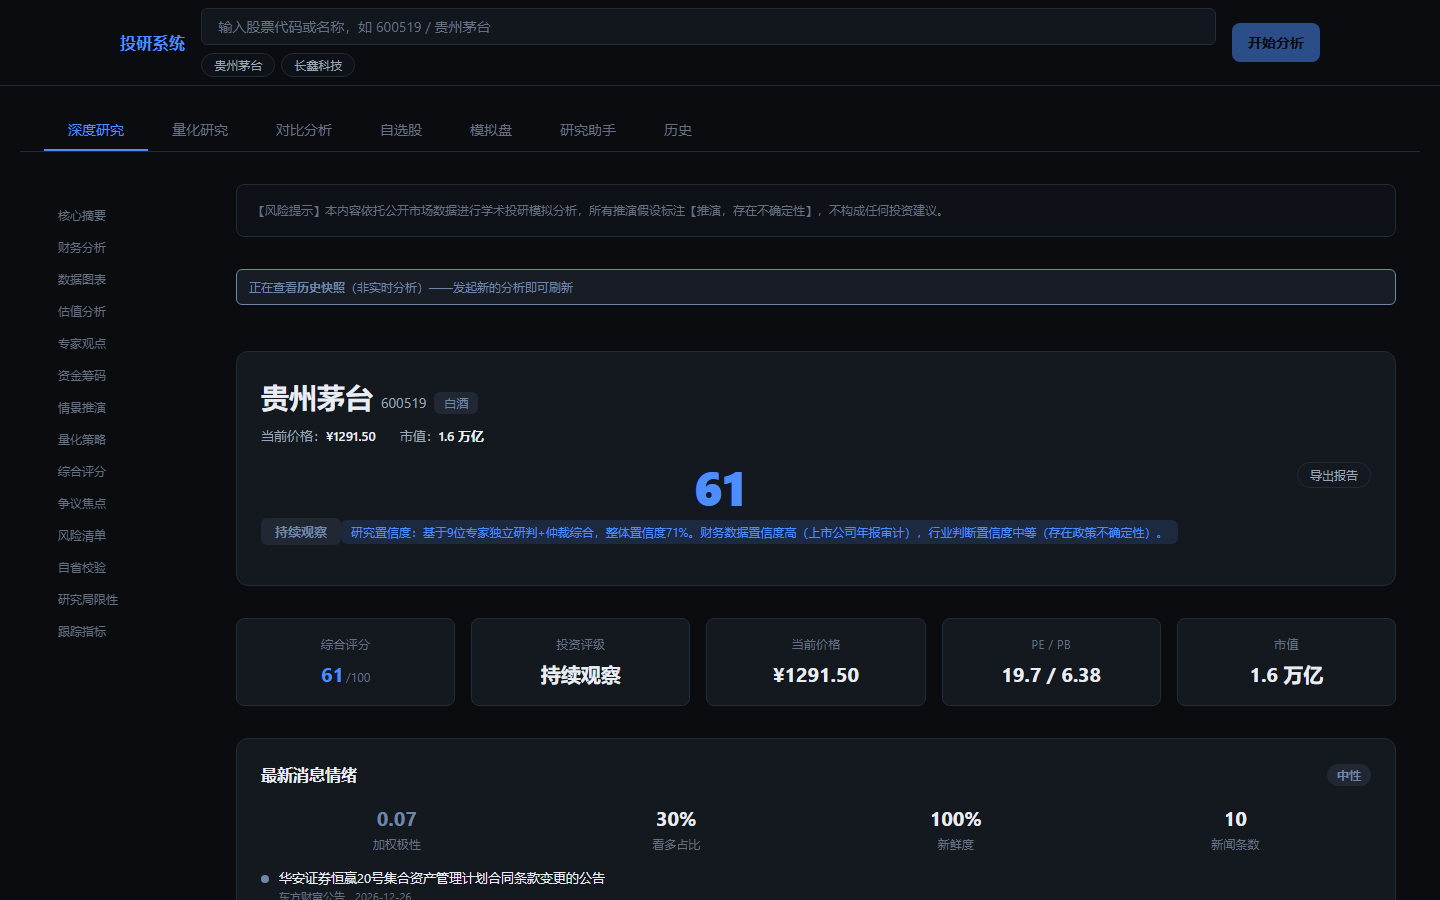
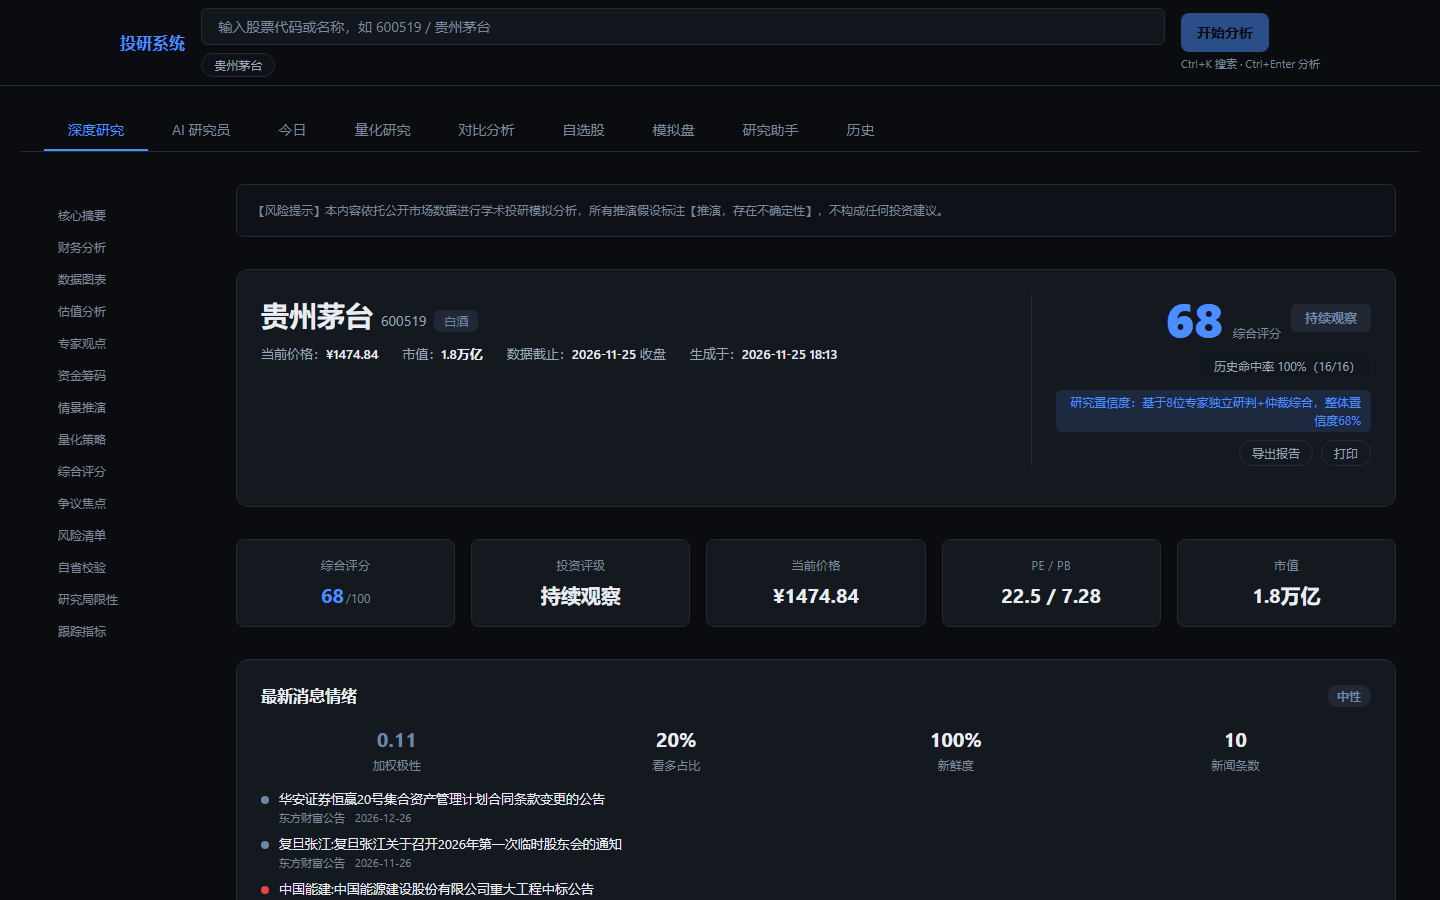
docs: README 最快上手、启动说明与测试数字，重拍报告首图
- 顶部补「最快上手」：npm ci / server/.env / npm run dev
- 启动脚本段落说明 503 就绪判定、失败退出与局域网访问前提
- 测试数字同步为 3687 用例 / 271 文件
- 用真实分析（贵州茅台）重拍报告首图

diff --git a/README.md b/README.md
@@ -4,12 +4,23 @@
   <img src="https://img.shields.io/badge/TypeScript-7-3178C6" alt="TypeScript" />
   <img src="https://img.shields.io/badge/React-19-61DAFB" alt="React 19" />
   <img src="https://img.shields.io/badge/Express-5-000000" alt="Express 5" />
-  <img src="https://img.shields.io/badge/tests-3680%20cases-brightgreen" alt="3680 测试用例" />
+  <img src="https://img.shields.io/badge/tests-3687%20cases-brightgreen" alt="3687 测试用例" />
   <a href="https://github.com/xiaomaozjj666/stock-research-system/actions/workflows/ci.yml"><img src="https://github.com/xiaomaozjj666/stock-research-system/actions/workflows/ci.yml/badge.svg" alt="CI" /></a>
   <img src="https://img.shields.io/badge/license-MIT-blue" alt="MIT License" />
 </p>
 
 > 面向 A 股的全栈投研平台：多专家协同研判、专业 K 线行情分析、量化回测与防过拟合评估、可插拔交易成本模型与风险归因、模拟盘研究闭环、自选股异动监控，以及对话式研究助手。「今日」页把每天要看的聚到一屏：自选股异动、关注股评分变化、最近一份研究简报。
+
+## 最快上手
+
+```bash
+# 需 Node 24+（见 .nvmrc）
+npm ci --legacy-peer-deps      # 安装依赖（首次）
+cp .env.example server/.env    # 填 DEEPSEEK_API_KEY；缺省时只能用规则引擎的降级结论
+npm run dev                    # 前端 http://localhost:5173，后端 http://localhost:3001
+```
+
+依赖装好后也可双击 `启动系统.bat` 直接起服务。环境变量、生产构建与故障排查见 [快速开始](#快速开始) 与 [环境变量](#环境变量)。
 
 ![深度研究报告总览](docs/screenshots/report-overview.png)
 
@@ -169,7 +180,7 @@ server/          Express API 服务
 **技术栈**
 
 - Monorepo（npm workspaces）：`server/`（Express 5 + TypeScript）+ `client/`（React 19 + Vite 8 + ECharts 6）
-- 测试：Vitest（服务 / 量化 / 研究 Agent / 前端组件，3680 用例 / 270 个测试文件，行覆盖 93.36% / statements 91.30% / functions 93.10% / branches 81.93%）+ Playwright（E2E 17 用例）+ GitHub Actions CI（质量门禁 + 覆盖率阈值 + 体积预算 + E2E）
+- 测试：Vitest（服务 / 量化 / 研究 Agent / 前端组件，3687 用例 / 271 个测试文件，行覆盖 93.36% / statements 91.30% / functions 93.10% / branches 81.93%）+ Playwright（E2E 17 用例）+ GitHub Actions CI（质量门禁 + 覆盖率阈值 + 体积预算 + E2E）
 
 ## 快速开始
 
@@ -193,7 +204,9 @@ npm run dev:client    # 前端 → http://localhost:5173
 npm run build         # server + client，单端口同源托管
 ```
 
-Windows 一键启动：双击 `启动系统.bat`。该脚本不做任何安装，只负责启动与健康等待：先后在 `server/`（`npx tsx watch src/index.ts`，端口 3001）与 `client/`（`npx vite --host`，端口 5173）各开一个命令行窗口，轮询 `http://localhost:3001/api/health` 等待后端就绪（最长 90 秒，超时只打印警告并继续），随后轮询前端端口并自动打开浏览器。因此**首次使用仍需先执行上面的 `npm install`**，否则 `npx tsx` / `npx vite` 会因依赖缺失而失败。
+Windows 一键启动：双击 `启动系统.bat`。该脚本不做任何安装，只负责启动与健康等待：先检查 Node 与 `node_modules`、以及 3001/5173 端口是否被占用，随后在 `server/`（`npx tsx watch src/index.ts`，端口 3001）与 `client/`（`npx vite`，端口 5173）各开一个命令行窗口，轮询 `http://localhost:3001/api/health` 等待后端就绪（最长 90 秒；`/api/health` 在行情源暂不可达时返回 503，脚本同样视为已就绪并在页面显示降级提示），随后轮询前端端口并自动打开浏览器。后端未就绪时会明确打印「启动未完成」并以退出码 1 结束，不会把失败伪装成成功。因此**首次使用仍需先执行上面的 `npm install`**，否则 `npx tsx` / `npx vite` 会因依赖缺失而失败。
+
+> 局域网访问：前端默认只监听回环地址。确需让同网段设备访问时，先设置 `API_AUTH_TOKEN`（否则写接口裸露），再把 `client/` 的启动命令改为 `npx vite --host`；后端默认也只绑 `127.0.0.1`，需要同时设置 `HOST=0.0.0.0`。
 
 ## 环境变量
 
@@ -286,7 +299,7 @@ npm run mcp:serve     # stdio JSON-RPC 2.0
 ## 测试与质量
 
 ```bash
-npm test              # Vitest 全量单测（3680 用例 / 270 个测试文件：服务 / 量化 / 研究 Agent / 前端组件）
+npm test              # Vitest 全量单测（3687 用例 / 271 个测试文件：服务 / 量化 / 研究 Agent / 前端组件）
 npm run test:e2e      # Playwright 端到端（17 用例，真实浏览器 + 隔离数据）
 npm run lint          # 代码检查：ESLint（JS/风格，忽略 *.ts/*.tsx）+ oxlint（server/src、client/src、e2e）
 npm run format:check  # Prettier 格式检查
